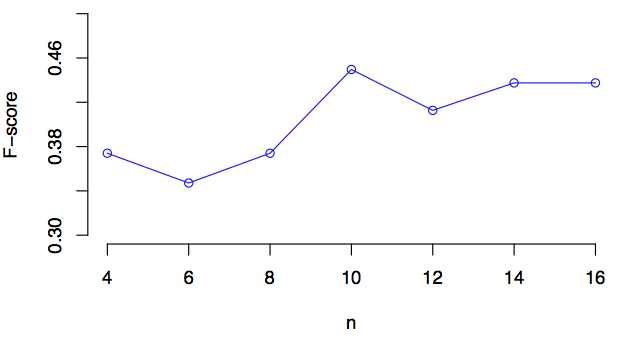
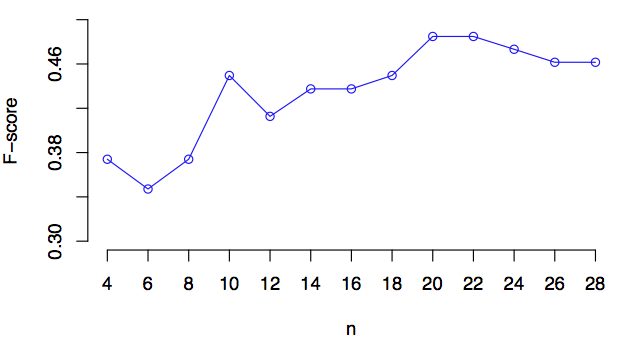
a few words on analysis; a new image

diff --git a/writeup/writeup.tex b/writeup/writeup.tex
@@ -214,7 +214,8 @@ Similarly, these are the three options for how we refine from the $n$ nearest ne
 We use a development set of 100 held-out words from WordNet 1.6 to tune various parameters, as described below.
 Figure \ref{fig:damping} gives the performance of the algorithm with different damping coefficient $\gamma$, as described in step \ref{item:voting} of Section \ref{sec:alg}.
 The numbers were gathered using scraping for initial enrichment and descriptions for refinement.
-The values collected in Figure \ref{fig:res} use $\gamma=0.7$, which is close to the optimum of the curve in figure \ref{fig:damping}.
+Figure \ref{fig:damping} indicates that paying more attention to synsets appearing near the beginning of a word's WordNet entry pays off, but ignoring synsets appearing near the end harms performance, which is entirely plausible.
+The values collected in Figure \ref{fig:res} use $k=3$ and $\gamma=0.7$, which is close to the optimum of the curve in figure \ref{fig:damping}.
 
 \begin{figure}[hbtp]
 \begin{center}
@@ -225,12 +226,33 @@ The values collected in Figure \ref{fig:res} use $\gamma=0.7$, which is close to
 \end{figure}
 Figure \ref{fig:n} shows the effect varying the value of $n$ has on the F-score.
 Recall that $n$ is the number of neighbors of the test word that we take from the offline model in order to reorder them subsequently using a search engine.
-The values collected in Figure \ref{fig:res} use $n=9$, which is near the optimal value on the curve in Figure \ref{fig:n}.
+We again use scraping for initial enrichment and descriptions for refinement, with $k=3$ and $\gamma=0.7$.
 
+It is not immediately obvious that this curve should decrease past a certain point, but this makes some sense---past a point, the neighbors of the test word are not very semantically related to it, and considering them as members of the eventual set of $k$ neighbors does more harm than good.
+Note the values collected in Figure \ref{fig:res} use $n=9$, which is below the optimal value on the curve in Figure \ref{fig:n}, but more computationally efficient.
+
+INSERT GRAPH SHOWING EFFECT OF MODIFYING $k$ HERE
 
 \subsection{Discussion}
 
-Is your hypothesis supported? What conclusions do the results support about the strengths and weaknesses of your method compared to other methods? How can the results be explained in terms of the underlying properties of the algorithm and/or the data. 
+%Is your hypothesis supported? What conclusions do the results support about the strengths and weaknesses of your method compared to other methods? How can the results be explained in terms of the underlying properties of the algorithm and/or the data.
+
+We hypothesized that using data from the web (for both vector enrichment and refining lists of nearest neighbors) will help performance.
+This hypothesis is largely supported by the results given in Figure \ref{fig:res} on the 1.6 test set and refuted by results on the 1.7 test set.
+
+On the 1.6 test set, both types of initial vector enrichment---with descriptions and by scraping pages---outperform the algorithm without enrichment.
+Enrichment with descriptions outperforms enrichment by scraping in two of three cases.
+In two of three cases, refining with descriptions provides an improvement over no refinement; in all three cases, refining with scraping harms performance.
+By and large, using information from the web on the 1.6 test set helps more than it hurts.
+
+On the 1.7 test set, on the other hand, using information from the web harms performance across the board.
+One difference is that the 1.7 test set contains a significantly higher percentage of items with supersense {\tt noun.person}: 62.60\%, vs 26.11\% in the 1.6 test set.
+One unfortunate consequence of this fact is that baseline performance is very difficult to beat on the 1.7 test set (indeed, the baseline outperforms our algorithm in every setup).
+Because so many of the test words are proper names of well-known individuals and, when these names are mentioned on the internet, they are typically in relation to some set of things for which these individuals are well-known, using the web here ends up harming performance.
+So the fact that our algorithm works poorly on proper names is not particularly important for the 1.6 test set, but causes very poor performance on the 1.7 test set, which is comprised of a majority of proper names.
+(STEPHEN: IS THIS CLAIM SUPPORTED BY THE EVIDENCE?)
+
+COMPARISON TO RESULTS IN C+J AND CURRAN
 
 \section{Related Work}
 
